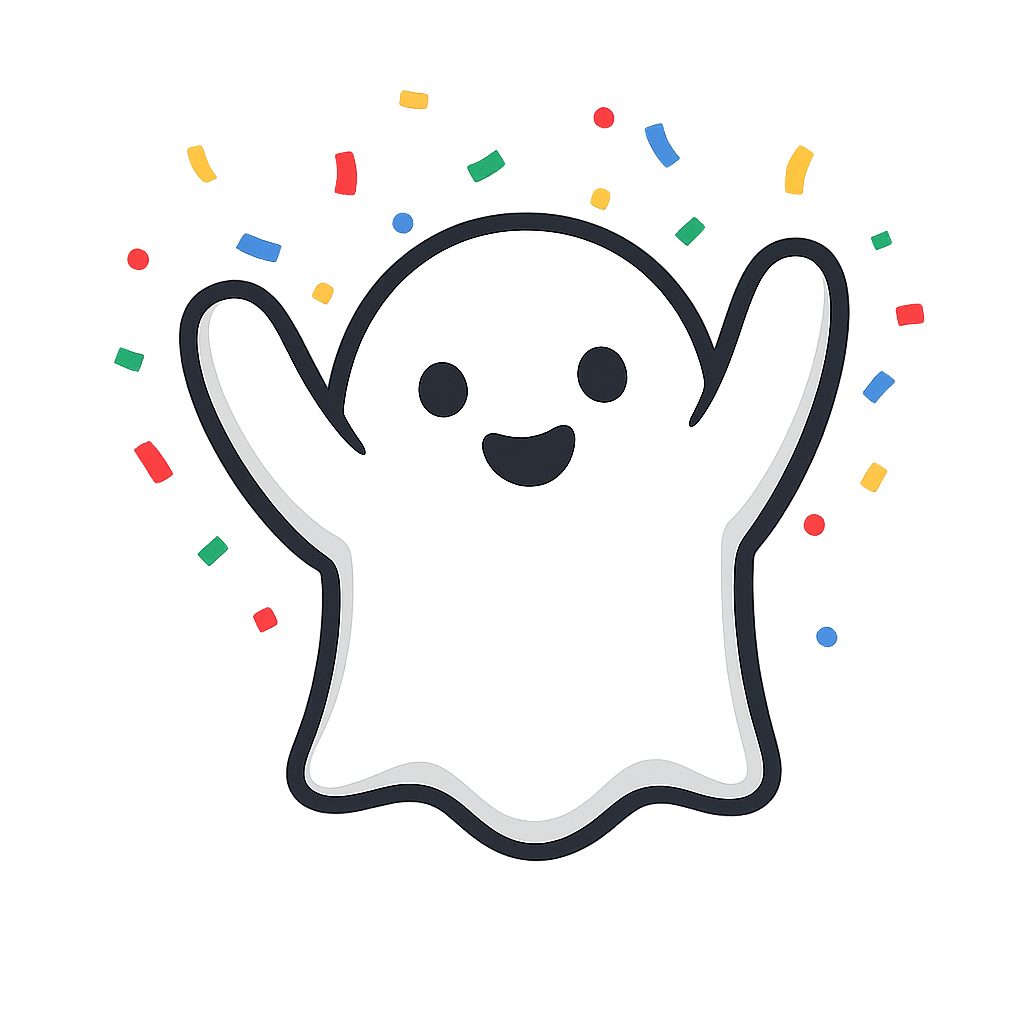
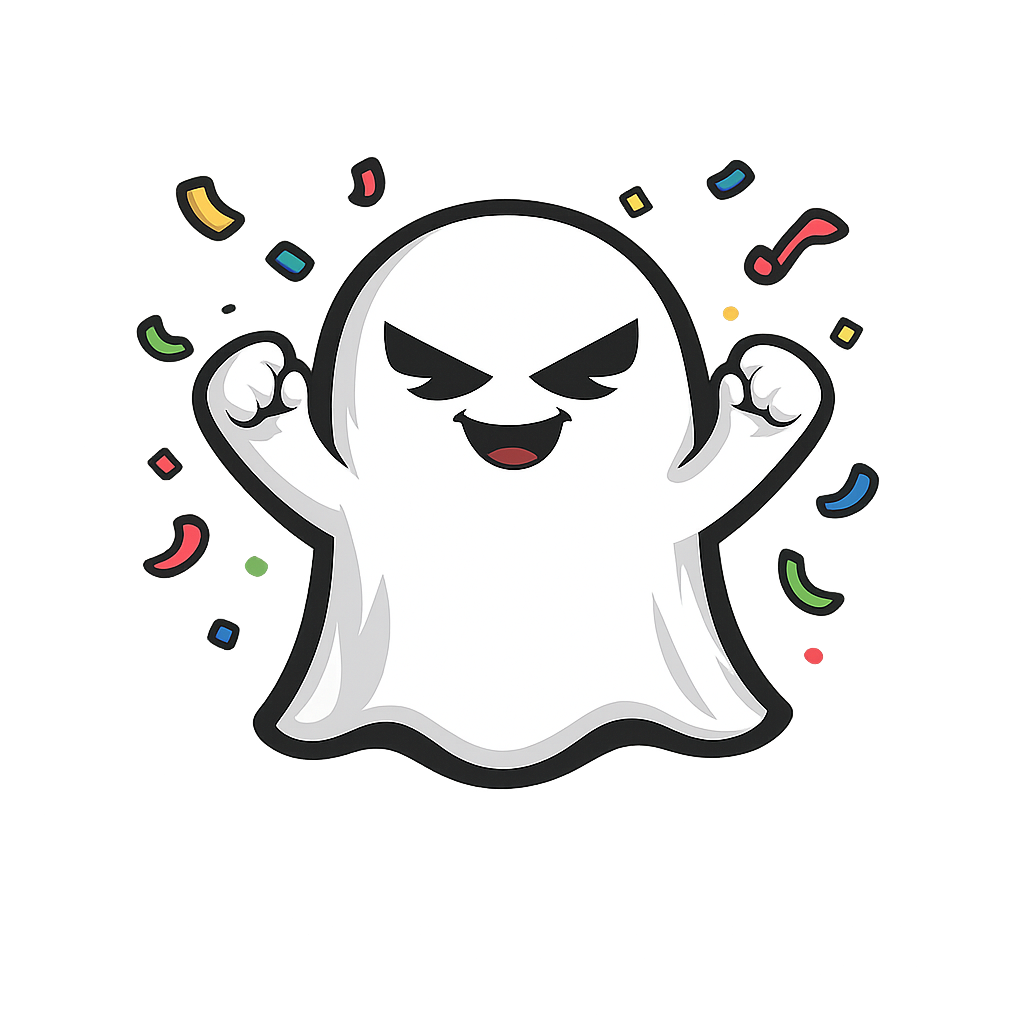
UI polish: Mission Complete personalization, font tweaks, and image updates
- Add analyst name to Mission Complete title
- Change Reset button to "Train Again"
- Update completion message text
- Lower verdict text size in Triage Review
- Lower Report Card table text on mobile
- Update ghost images

diff --git a/frontend/src/components/GroupedAlerts.jsx b/frontend/src/components/GroupedAlerts.jsx
@@ -15,6 +15,7 @@ const GroupedAlerts = ({ resetTrigger, onHardcoreFailure, onReset, isVisible }) 
   const [submittingIds, setSubmittingIds] = useState(new Set());
   const [currentLevel, setCurrentLevel] = useState(null);
   const [gameStarted, setGameStarted] = useState(false);
+  const [analystName, setAnalystName] = useState('');
 
   const fetchGroupedAlerts = () => {
     apiFetch('/api/grouped-alerts')
@@ -44,7 +45,10 @@ const GroupedAlerts = ({ resetTrigger, onHardcoreFailure, onReset, isVisible }) 
   const fetchGameState = () => {
     apiFetch('/api/game-state')
       .then(res => res.json())
-      .then(data => setGameStarted(!!data.analyst_name))
+      .then(data => {
+        setGameStarted(!!data.analyst_name);
+        if (data.analyst_name) setAnalystName(data.analyst_name);
+      })
       .catch(err => console.error("Failed to fetch game state", err));
   };
 
@@ -220,19 +224,19 @@ const GroupedAlerts = ({ resetTrigger, onHardcoreFailure, onReset, isVisible }) 
       {/* Training Complete Banner */}
       {gameStarted && currentLevel && currentLevel.completed && (
         <div className="bg-[#161b22] border border-gray-700 rounded-xl p-4 sm:p-5 mb-6 shadow">
-          <h2 className="text-2xl font-semibold text-white mb-4">Mission Complete</h2>
+          <h2 className="text-2xl font-semibold text-white mb-4 pb-4 border-b border-gray-700">Mission Complete{analystName ? `, ${analystName}` : ''}</h2>
           <div className="flex flex-col items-center text-center">
             <img
               src="/ghost-celebrate.png"
               alt="Ghost Celebrating"
               className="w-28 h-28 sm:w-40 sm:h-40 opacity-90 mb-3"
             />
-            <p className="font-mono text-sm text-gray-400 mb-4">&gt; You've completed all {currentLevel.total_levels} levels. Reset the simulator to play again.</p>
+            <p className="font-mono text-sm text-gray-400 mb-4">&gt; You've completed your training. The threats never stood a chance.</p>
             <button
               onClick={onReset}
               className="px-4 py-2 text-sm font-medium rounded-md border transition focus:outline-none focus:ring-2 focus:ring-gray-500 bg-[#21262d] hover:bg-[#30363d] text-gray-200 border-gray-600"
             >
-              Reset
+              Train Again
             </button>
           </div>
         </div>

diff --git a/frontend/src/components/AnalystReportCard.jsx b/frontend/src/components/AnalystReportCard.jsx
@@ -25,9 +25,9 @@ const AnalystReportCard = ({ report }) => {
     <div className="bg-[#161b22] p-6 rounded-2xl border border-gray-700 shadow-md h-full">
       <h2 className="text-xl sm:text-2xl font-semibold text-white mb-4">Report Card</h2>
 
-      <table className="w-full text-lg mt-8">
+      <table className="w-full text-sm sm:text-base mt-8">
         <thead>
-          <tr className="text-lg text-gray-500 tracking-wider">
+          <tr className="text-sm sm:text-base text-gray-500 tracking-wider">
             <th className="text-left pb-3 font-medium">Category</th>
             <th className="text-center pb-3 font-medium w-16">Score</th>
           </tr>

diff --git a/frontend/src/components/ActionHistory.jsx b/frontend/src/components/ActionHistory.jsx
@@ -80,7 +80,7 @@ const ActionHistory = ({ history }) => {
                         </svg>
                       )}
                     </span>
-                    <span className="text-sm sm:text-lg text-gray-400">
+                    <span className="text-xs sm:text-base text-gray-400">
                       Your Call: <span className="text-white">{item.user_choice}</span>
                       <span className="text-gray-600 mx-2">|</span>
                       Correct: <span className="text-white">{item.true_category}</span>
